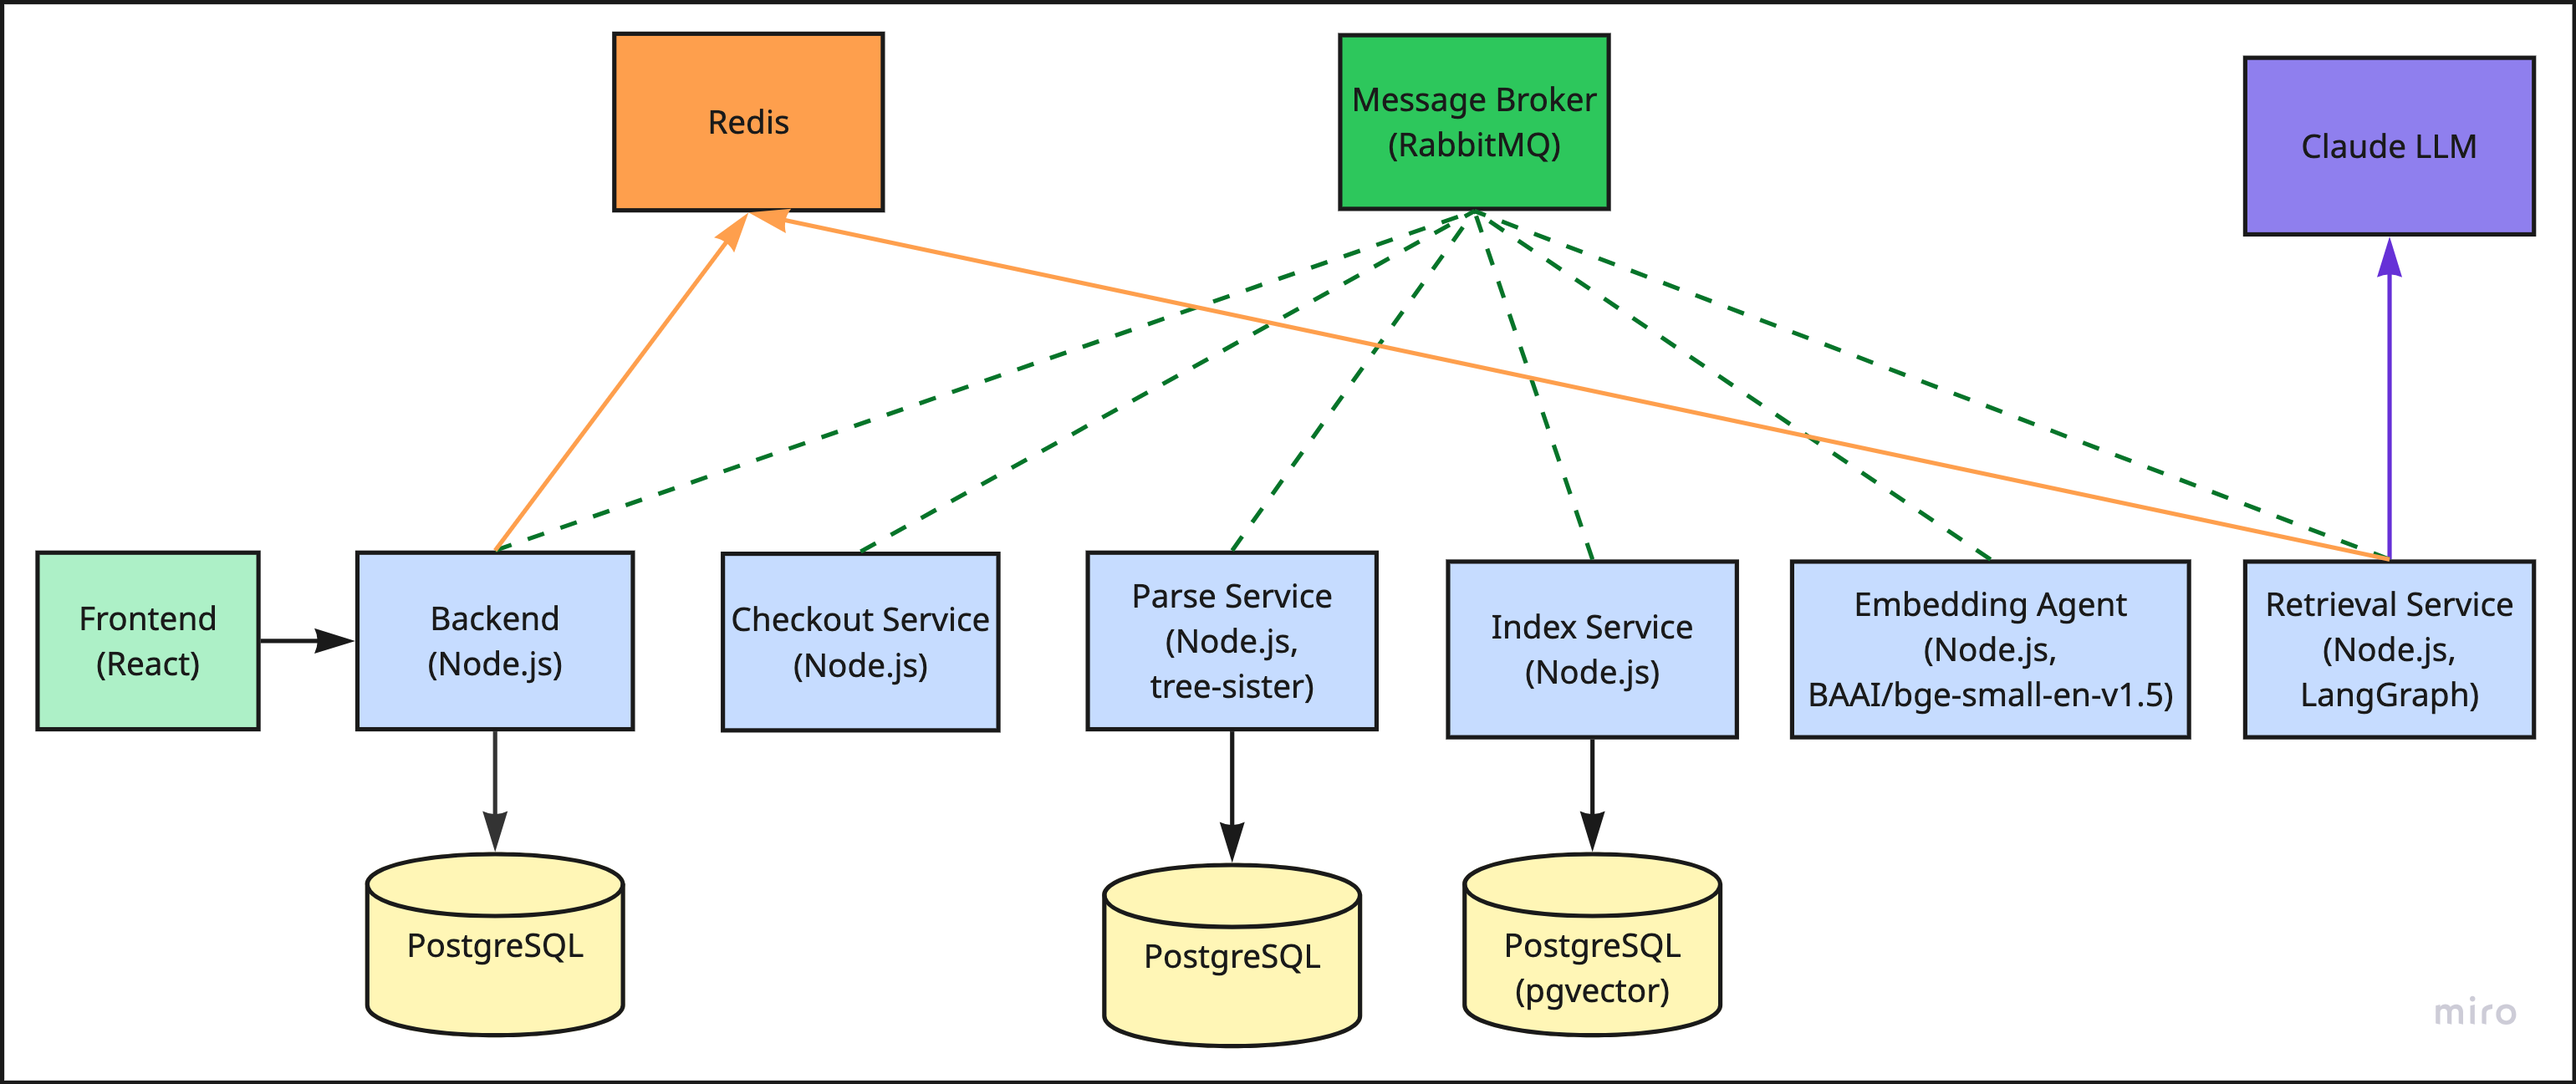
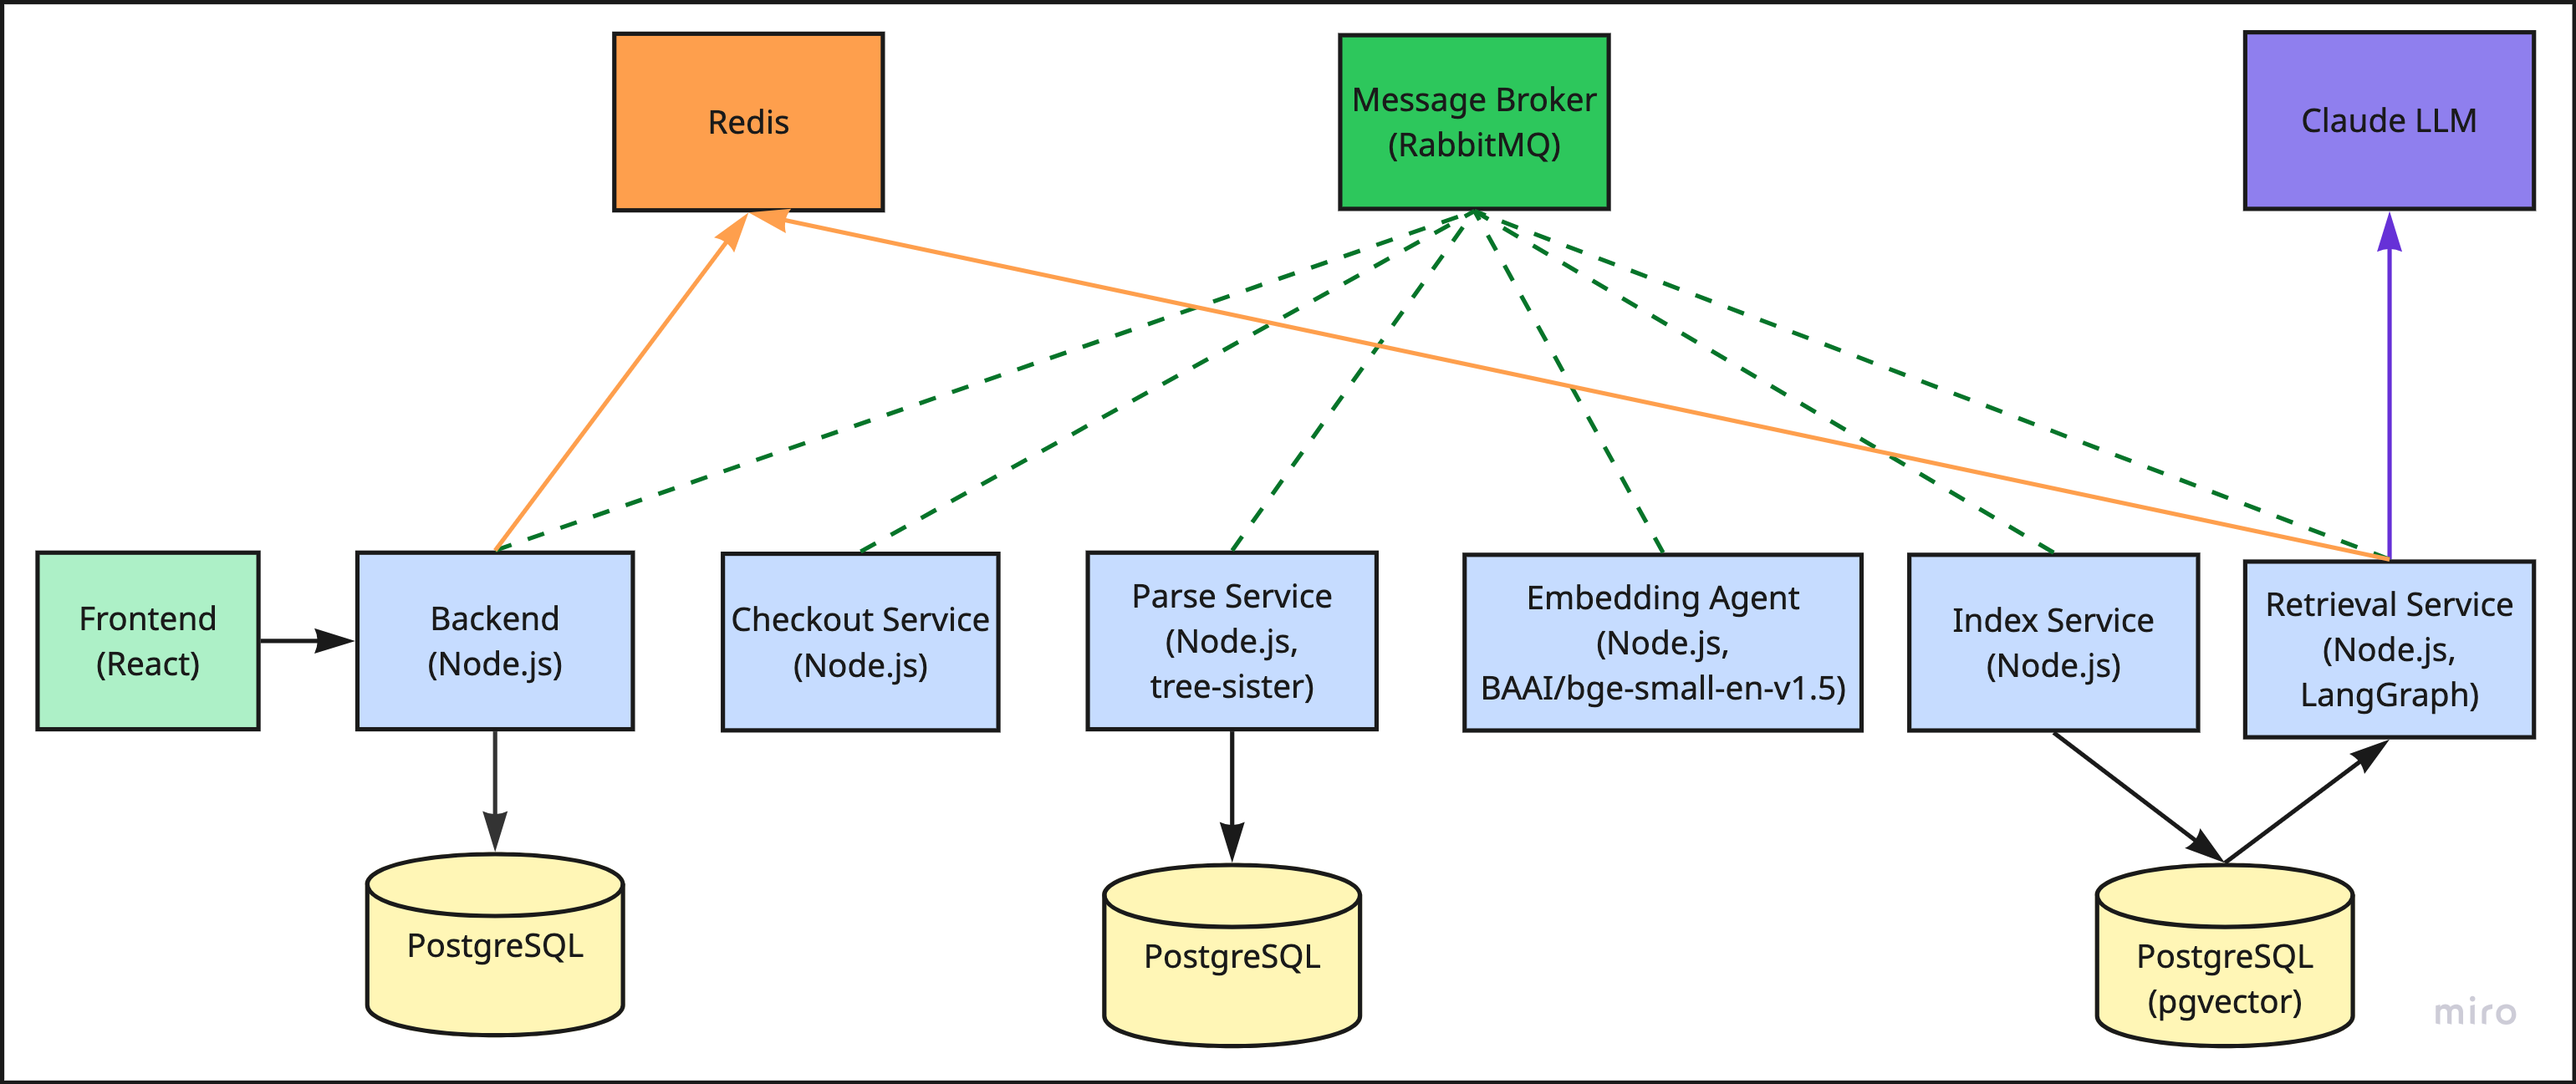
update archiecture diagram

diff --git a/retrieval-service/src/retrieval/graph/retrieval-graph.ts b/retrieval-service/src/retrieval/graph/retrieval-graph.ts
@@ -56,7 +56,7 @@ export class RetrievalGraph {
       .addNode('skip_rerank', (state) => this.skipRerankNode.run(state))
       .addNode('rerank', (state) => this.rerankNode.run(state))
       .addNode('context_builder', (state) => this.contextBuilderNode.run(state))
-      .addNode('answer', (state) => this.answerNode.run(state))
+      .addNode('generate_answer', (state) => this.answerNode.run(state))
       .addEdge(START, 'query_understanding')
       .addEdge('query_understanding', 'hybrid_retrieval')
       .addEdge('hybrid_retrieval', 'fusion')
@@ -68,8 +68,8 @@ export class RetrievalGraph {
       .addEdge('advance_attempt', 'query_understanding')
       .addEdge('skip_rerank', 'context_builder')
       .addEdge('rerank', 'context_builder')
-      .addEdge('context_builder', 'answer')
-      .addEdge('answer', END)
+      .addEdge('context_builder', 'generate_answer')
+      .addEdge('generate_answer', END)
       .compile();
   }
 }

diff --git a/retrieval-service/src/retrieval/contracts/chat.interface.ts b/retrieval-service/src/retrieval/contracts/chat.interface.ts
@@ -24,7 +24,7 @@ export enum AnthropicModel {
   CLAUDE_HAIKU_4_5 = 'claude-haiku-4-5',
 }
 
-export const ANSWER_MODEL = AnthropicModel.CLAUDE_HAIKU_4_5;
+export const ANSWER_MODEL = AnthropicModel.CLAUDE_SONNET_5;
 
 export type ChatStep =
   | 'query_understanding'

diff --git a/ARTICLE.md b/ARTICLE.md
@@ -1,14 +1,10 @@
-# Building Code Inspect: An Event-Driven Ingestion Pipeline and RAG System
+# Building an Event-Driven Ingestion Pipeline and RAG System
 
 This article walks through the building of Code Inspect, a code intelligence platform for GitHub repositories, composed of an event-driven ingestion pipeline and RAG system.
 
-**Ingestion pipeline** — clones, parses, and indexes a repo until it's marked `READY`:
+**Ingestion pipeline** — clones, parses, and indexes a repo until it's marked `READY`, via Parse, Embedding, and Index Services.
 
-- **Parse Service** — real Tree-sitter grammars for JavaScript, TypeScript, Go, and PHP extract classes/functions/methods/interfaces with exact line ranges, plus structural extractors for Kubernetes YAML
-- **Embedding Service** — self-hosted `BAAI/bge-small-en-v1.5` via `@xenova/transformers` (ONNX), no external API, no per-token cost
-- **Index Service** — one Postgres table holding both a pgvector column and a generated `tsvector` column, so vector search and keyword search live side by side with no separate index to keep in sync
-
-**RAG system** — once a project is `READY`, a compiled **LangGraph** state machine answers a user's question: it retrieves relevant code via hybrid vector-plus-keyword search, reranks and assembles it into context, then grounds a Claude answer in that context with file/symbol/line citations
+**RAG system** — once `READY`, a compiled **LangGraph** state machine answers questions using hybrid vector-plus-keyword retrieval, grounding Claude's answer with file/symbol/line citations.
 
 ![Screenshot of the Code Inspect chat UI: a user question, a black CLI-style step trace with green checkmarks connected by arrows (Query Understanding → Hybrid Retrieval → Result Fusion → Reranker → Context Builder → Claude), the grounded answer text, and a collapsible Sources panel listing file/symbol/line citations.](./screenshot.png)
 
@@ -26,7 +22,11 @@ Once a project is `READY`, asking it a question kicks off a second, independent 
 
 **RabbitMQ** — the `code-inspect.chat` topic exchange, entirely separate from the ingestion pipeline's exchange. Backend publishes `.started`; Retrieval Service publishes `.completed`/`.failed`. Redis never carries these events — it's a cache the two ends of the WebSocket both happen to read and write, not a transport.
 
-**Retrieval Service** — subscribes to `code-inspect.chat.started` and runs the entire answer flow as one compiled LangGraph state machine, described below. Reads `index.symbol_embeddings` (vectors + generated `tsvector`) and `parse.symbols` (file/symbol/line metadata for citations) — tables owned by the ingestion pipeline's Index Service and Parse Service — directly via raw SQL, since reading them is the entire point of retrieval, but never writes to either.
+**Parse Service** (schema `parse`) — the ingestion-side owner of `parse.symbols`. Real Tree-sitter grammars for JavaScript, TypeScript, Go, and PHP extract classes/functions/methods/interfaces with exact line ranges, plus structural extractors for Kubernetes YAML and Markdown, and a best-effort dependency graph per symbol. Retrieval Service reads this table read-only, for the file/symbol/line metadata behind every citation.
+
+**Index Service** (schema `index`) — the ingestion-side owner of `index.symbol_embeddings`, one row per chunked symbol holding both a `vector(384)` column and a generated `tsvector` column side by side. Populated once, during ingestion, by chunking `parse.symbols` and calling Embedding Service in batches. Retrieval Service reads this table read-only, at query time, for both halves of hybrid search.
+
+**Retrieval Service** — subscribes to `code-inspect.chat.started` and runs the entire answer flow as one compiled LangGraph state machine, described below. Reads `index.symbol_embeddings` and `parse.symbols` directly via raw SQL, since reading them is the entire point of retrieval, but never writes to either — a command/query split across service boundaries, not a violation of schema ownership.
 
 **Embedding Service** — the same self-hosted `BAAI/bge-small-en-v1.5` service the ingestion pipeline uses to embed code chunks. Retrieval Service calls it once per question, to embed the query into the same 384-dimensional space the stored chunks live in.
 
@@ -399,23 +399,17 @@ This closes a gap that was easy to miss during development: the reply content wa
 
 ## Key Design Decisions
 
-**LangGraph over a hand-rolled sequential pipeline.** The original implementation was six plain `await` calls in a row, and stayed that way until real requirements needed conditional branching (skip the reranker) and a bounded loop (retry with a reformulated query). A graph framework earns its keep specifically when control flow needs to branch or cycle — for a pipeline that only ever runs the same steps in the same order, it would have been unjustified overhead.
+**LangGraph over a hand-rolled sequential pipeline.** A "query understanding → retrieve → fuse → rerank → build context → answer" pipeline is naturally six sequential `await` calls, and that's exactly how it started. It stopped being adequate the moment two real requirements landed at once: skip reranking when fusion returns nothing worth reranking, and retry with a reformulated query when the first retrieval pass comes back weak. Both are control flow a plain function has to express as nested `if`s wrapped around a `while` — readable for a while, then not. A `StateGraph` makes both a first-class part of the pipeline's shape instead of logic buried inside it: `routeAfterFusion` is a pure function returning one of three branch names, and the retry loop is just an edge from `advance_attempt` back to `query_understanding`, bounded by an attempt counter in state. The graph is the pipeline's actual control-flow diagram, not a diagram drawn to describe code that no longer looks like it.
 
-**A free heuristic over a second LLM call for reformulation.** The instinct when a retrieval pass looks weak is to ask an LLM to rephrase the query. Stripping stopwords and interrogative words is a regex, costs nothing, and covers the actual failure mode observed in practice — odd phrasing defeating keyword search, not semantic ambiguity that only a model could untangle. Reach for the model only after confirming the cheap fix doesn't cover it.
+**CQRS across service boundaries: Index and Parse Services write, Retrieval Service reads.** `index.symbol_embeddings` and `parse.symbols` each have exactly one writer — Index Service and Parse Service, populating them during ingestion — but a second service, Retrieval Service, reads both directly via raw SQL to do hybrid search and resolve citations. That's a command/query split, not a violation of schema ownership: the write side stays single-owner and event-driven like every other stage, while the query side is free to read whatever data answering a question requires, without forcing every retrieval to round-trip through an HTTP call to the owning service. Retrieval Service itself writes to neither schema — it doesn't even write its own result. It publishes `chat.completed`/`chat.failed` back onto RabbitMQ, and `backend`'s `ChatEventsService` is what turns that into the final row in `chats`.
 
-**OR-joined `to_tsquery` over `plainto_tsquery`.** This one was a real bug, not a design choice made up front — `plainto_tsquery`'s implicit AND-across-all-words made keyword search return zero rows for almost any real multi-word question, which was only caught by testing actual questions against actual data and noticing the numbers didn't make sense (0 rows for a full question, 31 for one word from it). The fix is a few lines; finding it required not trusting the framework's own "natural language" query builder without checking what it actually returns.
+**OR-joined `to_tsquery`, not `plainto_tsquery`.** This was a bug caught by data, not a decision made up front. `plainto_tsquery` implicitly ANDs every word together, so a full multi-word question returned 0 rows from the keyword side of hybrid search while a single word pulled from it returned 31 — a gap only visible once real questions were run against real indexed data, not synthetic test queries. The fix is small (build an OR-joined `to_tsquery` string instead), but the lesson generalizes: a "natural language" query helper's default semantics can quietly turn one half of a hybrid retriever into dead weight, and the only way to catch that is checking actual row counts, not trusting the function name.
 
-**Graceful Cohere fallback, not a hard dependency.** A reranking API key is optional infrastructure, not a hard requirement for the product to function. Missing key and failed request take the identical code path — pass the top candidates through unreranked and keep going — so the chat succeeds either way, just with a `usedCohere: false` marker for observability.
+**Redis is a cache, not a transport.** Once Redis is in the stack for live-progress polling, it's tempting to reach for it as a pub/sub channel or a lightweight queue too. The rule held firm here: RabbitMQ is the only carrier either side of the chat flow "sends" an event through; Redis's `chat:{uuid}` key is something both Retrieval Service and the WebSocket gateway read and write, but never a signal one side waits on the other to produce. The payoff is failure isolation — if Redis is briefly unavailable, the gateway keeps polling and the LangGraph run keeps executing regardless, because nothing about whether the chat *completes* was ever routed through it.
 
-**A dedicated node for a state transition, not an `if` inside a sibling node.** `AdvanceAttemptNode`'s only job is incrementing a counter on the loop-back edge; `SkipRerankNode`'s only job is slicing the fused list when reranking would be a no-op. Both could have been folded into `FusionNode` or `RerankNode` as conditionals. Keeping them as separate, single-purpose nodes means the routing function (`routeAfterFusion`) stays a pure decision with no side effects, and each node's log line unambiguously tells you which branch actually executed.
+**Cross-schema reads, never writes.** Retrieval Service reads `index.symbol_embeddings` and `parse.symbols` via raw SQL because hybrid retrieval depends on it — and writes to neither.
 
-**Citations built from data, not asked of the model.** `context_builder` resolves file/symbol/line metadata via a plain SQL join before the Claude call ever happens — the model never has to report where its own context came from, and the citation list can't drift from what was actually retrieved, because it's built from the exact same rows.
-
-**Redis for live progress only, never for events.** The temptation once Redis is in the stack is to use it for more than a cache — a pub/sub channel, a lock, a queue. Retrieval Service and the WebSocket gateway communicate exclusively by both reading and writing the same `chat:{uuid}` key; RabbitMQ remains the only thing either side "sends" an event through. If Redis is briefly unavailable, the gateway just keeps polling and the graph just keeps journaling — nothing is lost, because nothing important was ever routed through it.
-
-**Reading another service's schema for retrieval, but never writing it.** Retrieval Service reads `index.symbol_embeddings` and `parse.symbols` directly via raw SQL — tables it doesn't own — because that's the entire point of hybrid retrieval and citation-building. The rule that survives is narrow and explicit: read access where the whole feature depends on it, write access never.
-
-**Per-stage `.completed`/`.failed` events over one shared `.failed` routing key.** Every pipeline stage publishes its own pair — `checkout.failed`, `parse.failed`, `index.failed` — rather than every stage funneling failures through one generic `code-inspect.project.failed`. A consumer can bind to (or a human scanning RabbitMQ's management UI can filter to) exactly the failure mode it cares about, instead of every failure handler needing to branch on a `stage` field to find out what actually broke.
+**One `.completed`/`.failed` pair per stage, not a shared failure event.** `checkout.failed`, `parse.failed`, `index.failed` let a consumer bind to the exact failure it cares about, instead of branching on a `stage` field.
 
 **`code-inspect.project`** — the ingestion pipeline:
 
